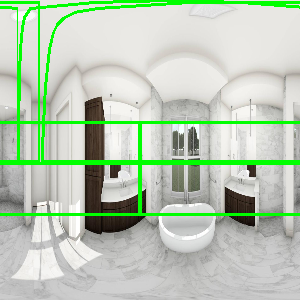
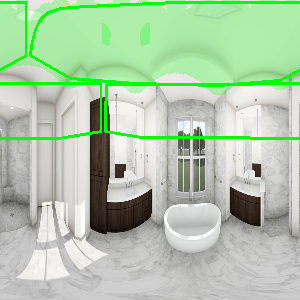
detect.py more pythonic

diff --git a/detect.py b/detect.py
@@ -10,7 +10,7 @@ from vis import plot_bfov
 device = torch.device("cuda" if torch.cuda.is_available() else "cpu")
 
 # Load model checkpoint
-checkpoint = 'checkpoint_ssd301.pth.tar'
+checkpoint = 'checkpoint_ssd300.pth.tar'
 checkpoint = torch.load(checkpoint)
 start_epoch = checkpoint['epoch'] + 1
 print('\nLoaded checkpoint from epoch %d.\n' % start_epoch)
@@ -68,19 +68,7 @@ def detect(model, original_image, min_score, max_overlap, top_k, suppress=None):
 
     det_boxes = det_boxes.detach().cpu()
 
-    h, w = 300,300
-    image=cv2.imread('/home/mstveras/ssd-360/img2.jpg')
-
-    for i in range(len(det_boxes)):
-        #k = random.randint(0, 8500)
-        box = det_boxes[i]
-        u00, v00 = ((rad2deg(box[0])/360)+0.5)*300, ((rad2deg(box[1])/180)+0.5)*300
-        a_lat, a_long = box[2], box[3]
-        #color = color_map.get(classes[i], (255, 255, 255))
-        color = (0,255,0)
-        image = plot_bfov(image, v00, u00, a_long, a_lat, color, h, w)
-
-    cv2.imwrite('final_image.png', image)
+    return det_boxes
 
     # Annotate
     '''annotated_image = original_image
@@ -120,6 +108,20 @@ if __name__ == '__main__':
     img_path = '/home/mstveras/ssd-360/img2.jpg'
     original_image = Image.open(img_path, mode='r')
     original_image = original_image.convert('RGB')
-    img = detect(model, original_image, min_score=0.6, max_overlap=0.3, top_k=3)
+    det_boxes = detect(model, original_image, min_score=0.6, max_overlap=0.3, top_k=3)
     #img.save('output.png')
+
+    h, w = 300,300
+    image=cv2.imread(img_path)
+
+    for i in range(len(det_boxes)):
+        #k = random.randint(0, 8500)
+        box = det_boxes[i]
+        u00, v00 = ((rad2deg(box[0])/360)+0.5)*300, ((rad2deg(box[1])/180)+0.5)*300
+        a_lat, a_long = box[2], box[3]
+        #color = color_map.get(classes[i], (255, 255, 255))
+        color = (0,255,0)
+        image = plot_bfov(image, v00, u00, a_long, a_lat, color, h, w)
+
+    cv2.imwrite('final_image.png', image)
 

diff --git a/vis.py b/vis.py
@@ -28,6 +28,27 @@ class Plotting:
         hull = cv2.convexHull(kernel)
         cv2.polylines(resized_image, [hull], isClosed=True, color=color, thickness=2)
         return resized_image
+    
+def plot_circles(img, arr, color, transparency):
+    """
+    Draws transparent circles on an image at specified coordinates.
+
+    Parameters:
+    img (ndarray): The image on which to draw.
+    arr (list): List of center coordinates for the circles.
+    color (tuple): Color of the circles.
+    transparency (float): Transparency of the circles.
+
+    Returns:
+    ndarray: The image with circles drawn.
+    """
+    overlay = img.copy()
+    for point in arr:
+        cv2.circle(overlay, point, 10, color, -1)
+    
+    cv2.addWeighted(overlay, transparency, img, 1 - transparency, 0, img)
+    return img
+
 
 def plot_bfov(img, v00, u00, a_lat, a_long, color, h, w):
     """
@@ -66,7 +87,7 @@ def plot_bfov(img, v00, u00, a_lat, a_long, color, h, w):
     v = np.nan_to_num(v, nan=0)
 
     kernel = np.array([u, v], dtype=np.int32).T
-    #img = plot_circles(img, kernel, color, 0.25)
+    img = plot_circles(img, kernel, color, 0.25)
 
     img = Plotting.plotEquirectangular(img, kernel, color, h, w)
     img = np.roll(img, w - t, axis=1)

diff --git a/model.py b/model.py
@@ -621,7 +621,6 @@ class MultiBoxLoss(nn.Module):
             true_classes[i] = label_for_each_prior
 
             # Encode center-size object coordinates into the form we regressed predicted boxes to
-            #só usa para loss de loc? pq?
             #IOU BASED
             true_locs[i] = boxes[i][object_for_each_prior]
             #true_locs[i] = cxcy_to_gcxgcy(xy_to_cxcy(boxes[i][object_for_each_prior]), self.priors_cxcy)  # (8732, 4)
@@ -669,6 +668,4 @@ class MultiBoxLoss(nn.Module):
 
         
         # TOTAL LOSS
-
-        #print("LOC LOSS", loc_loss)
         return conf_loss + self.alpha * loc_loss
